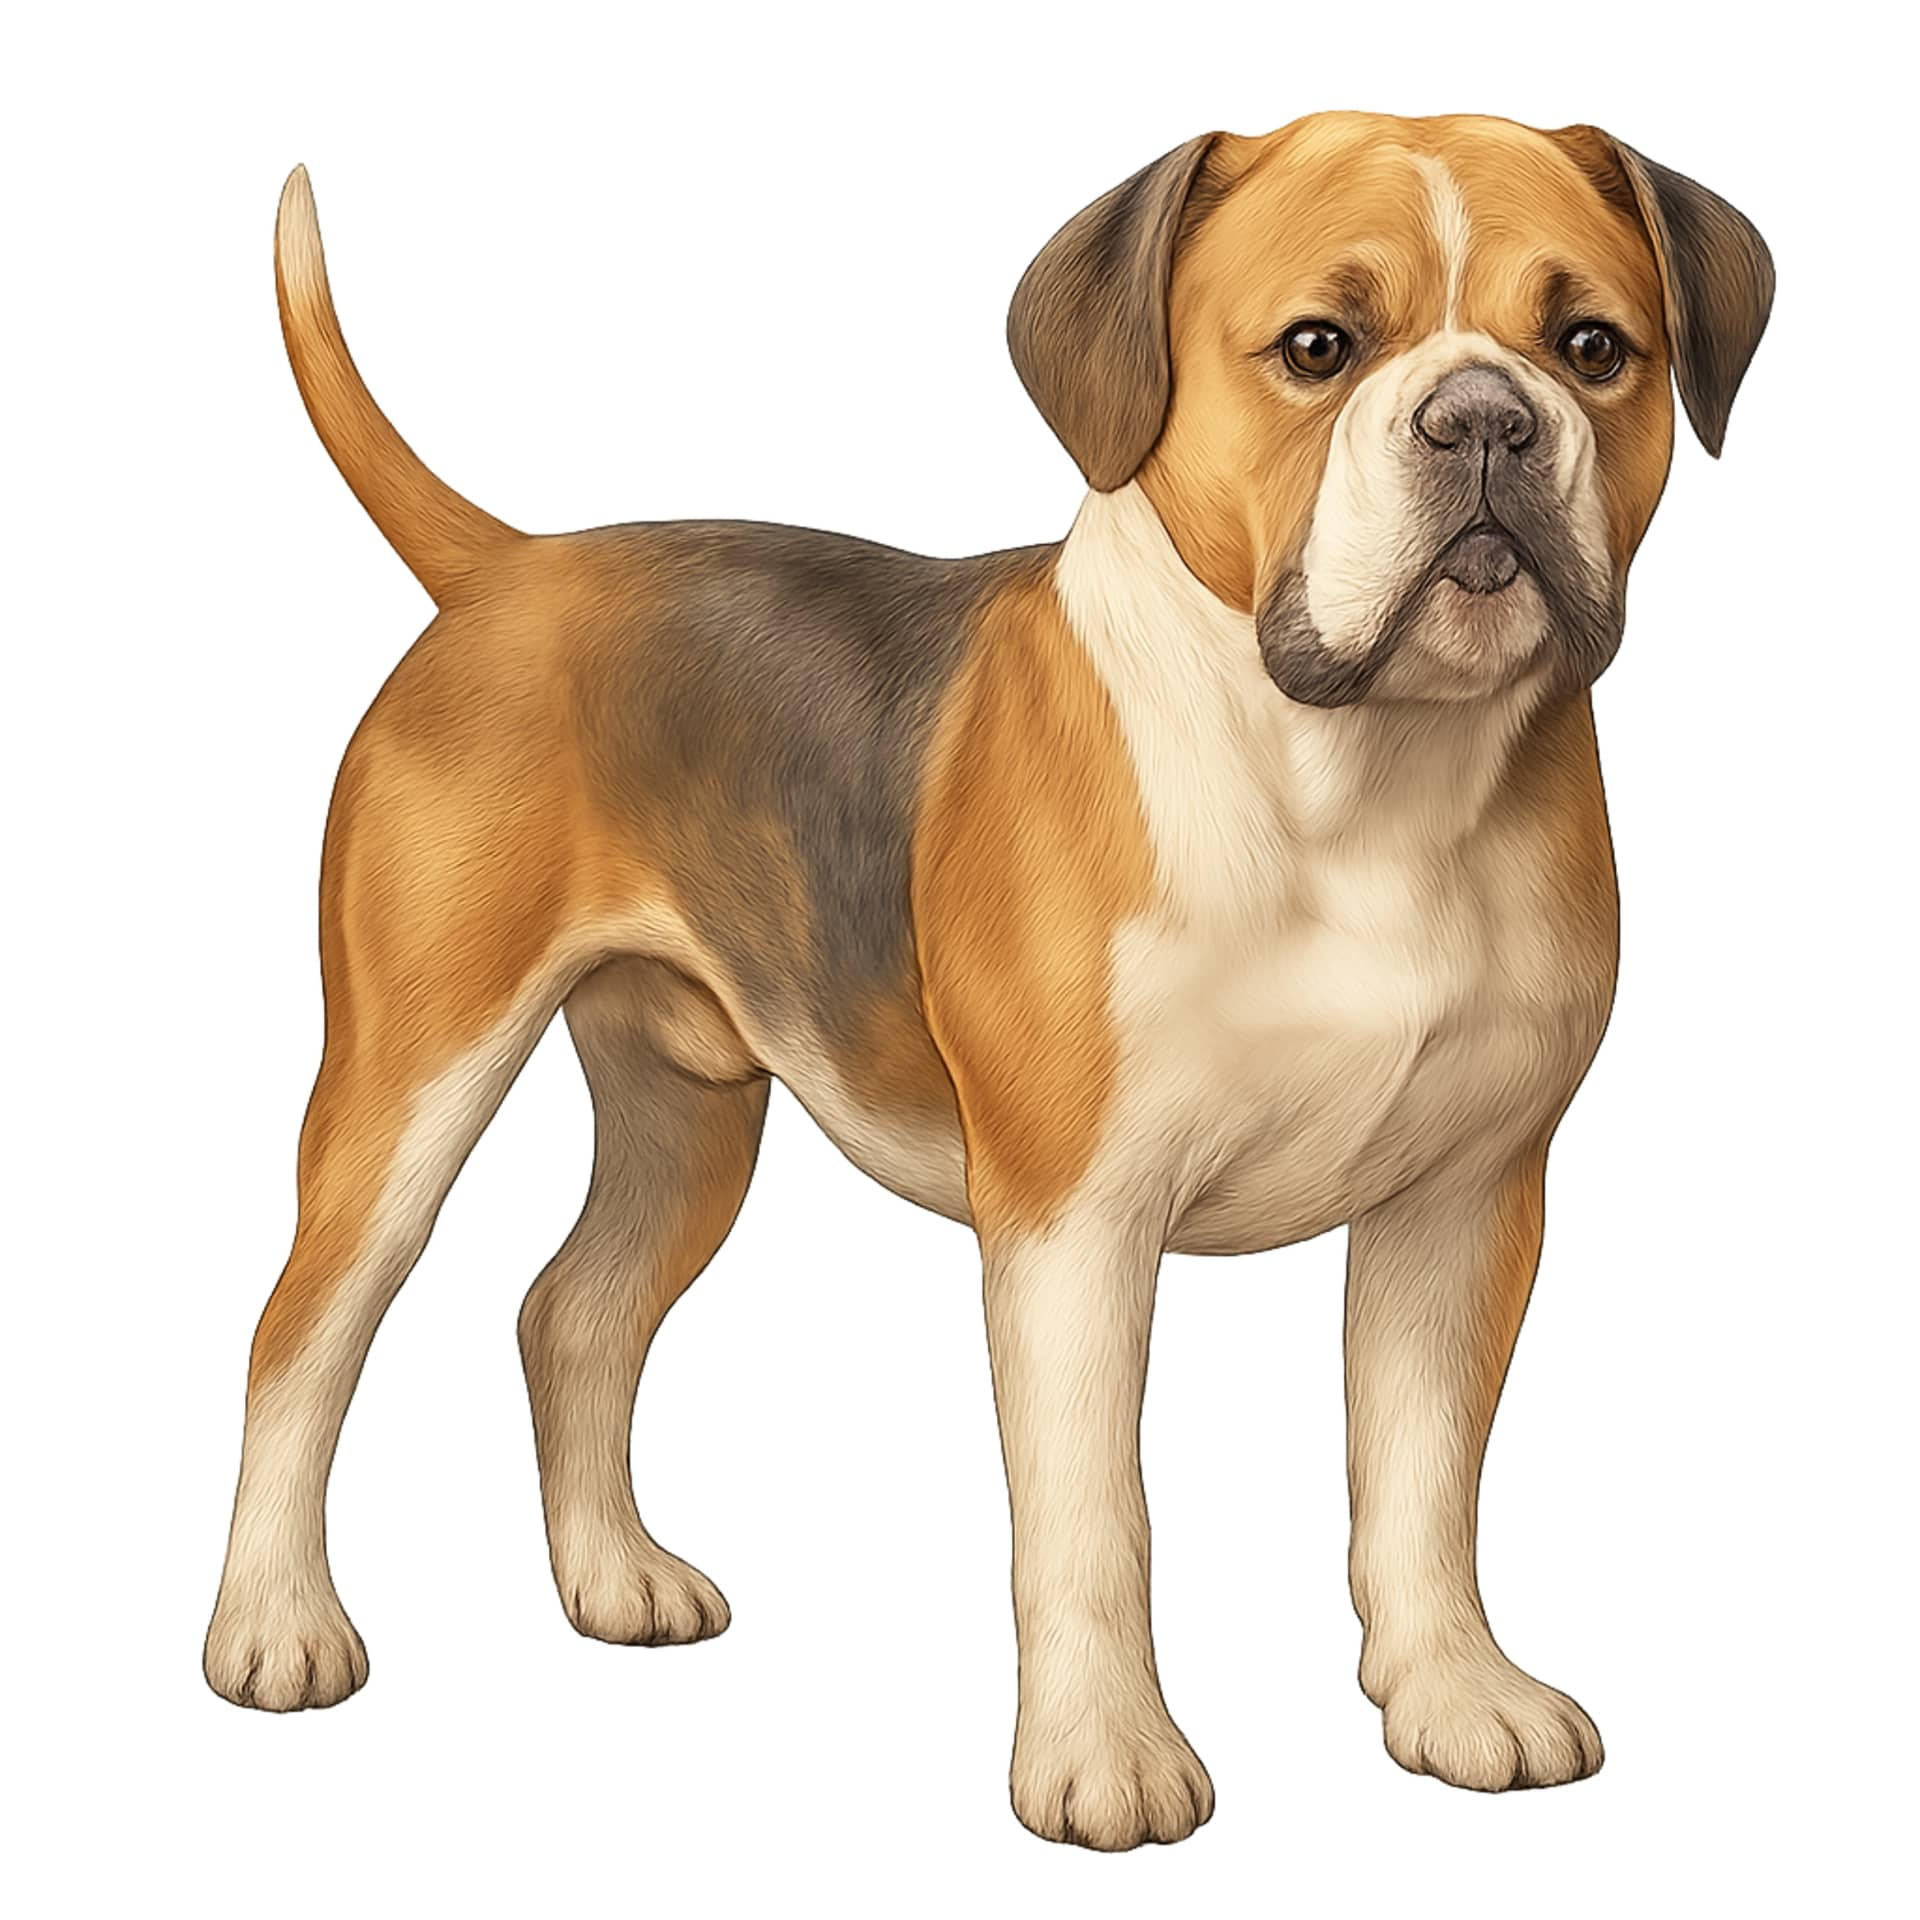
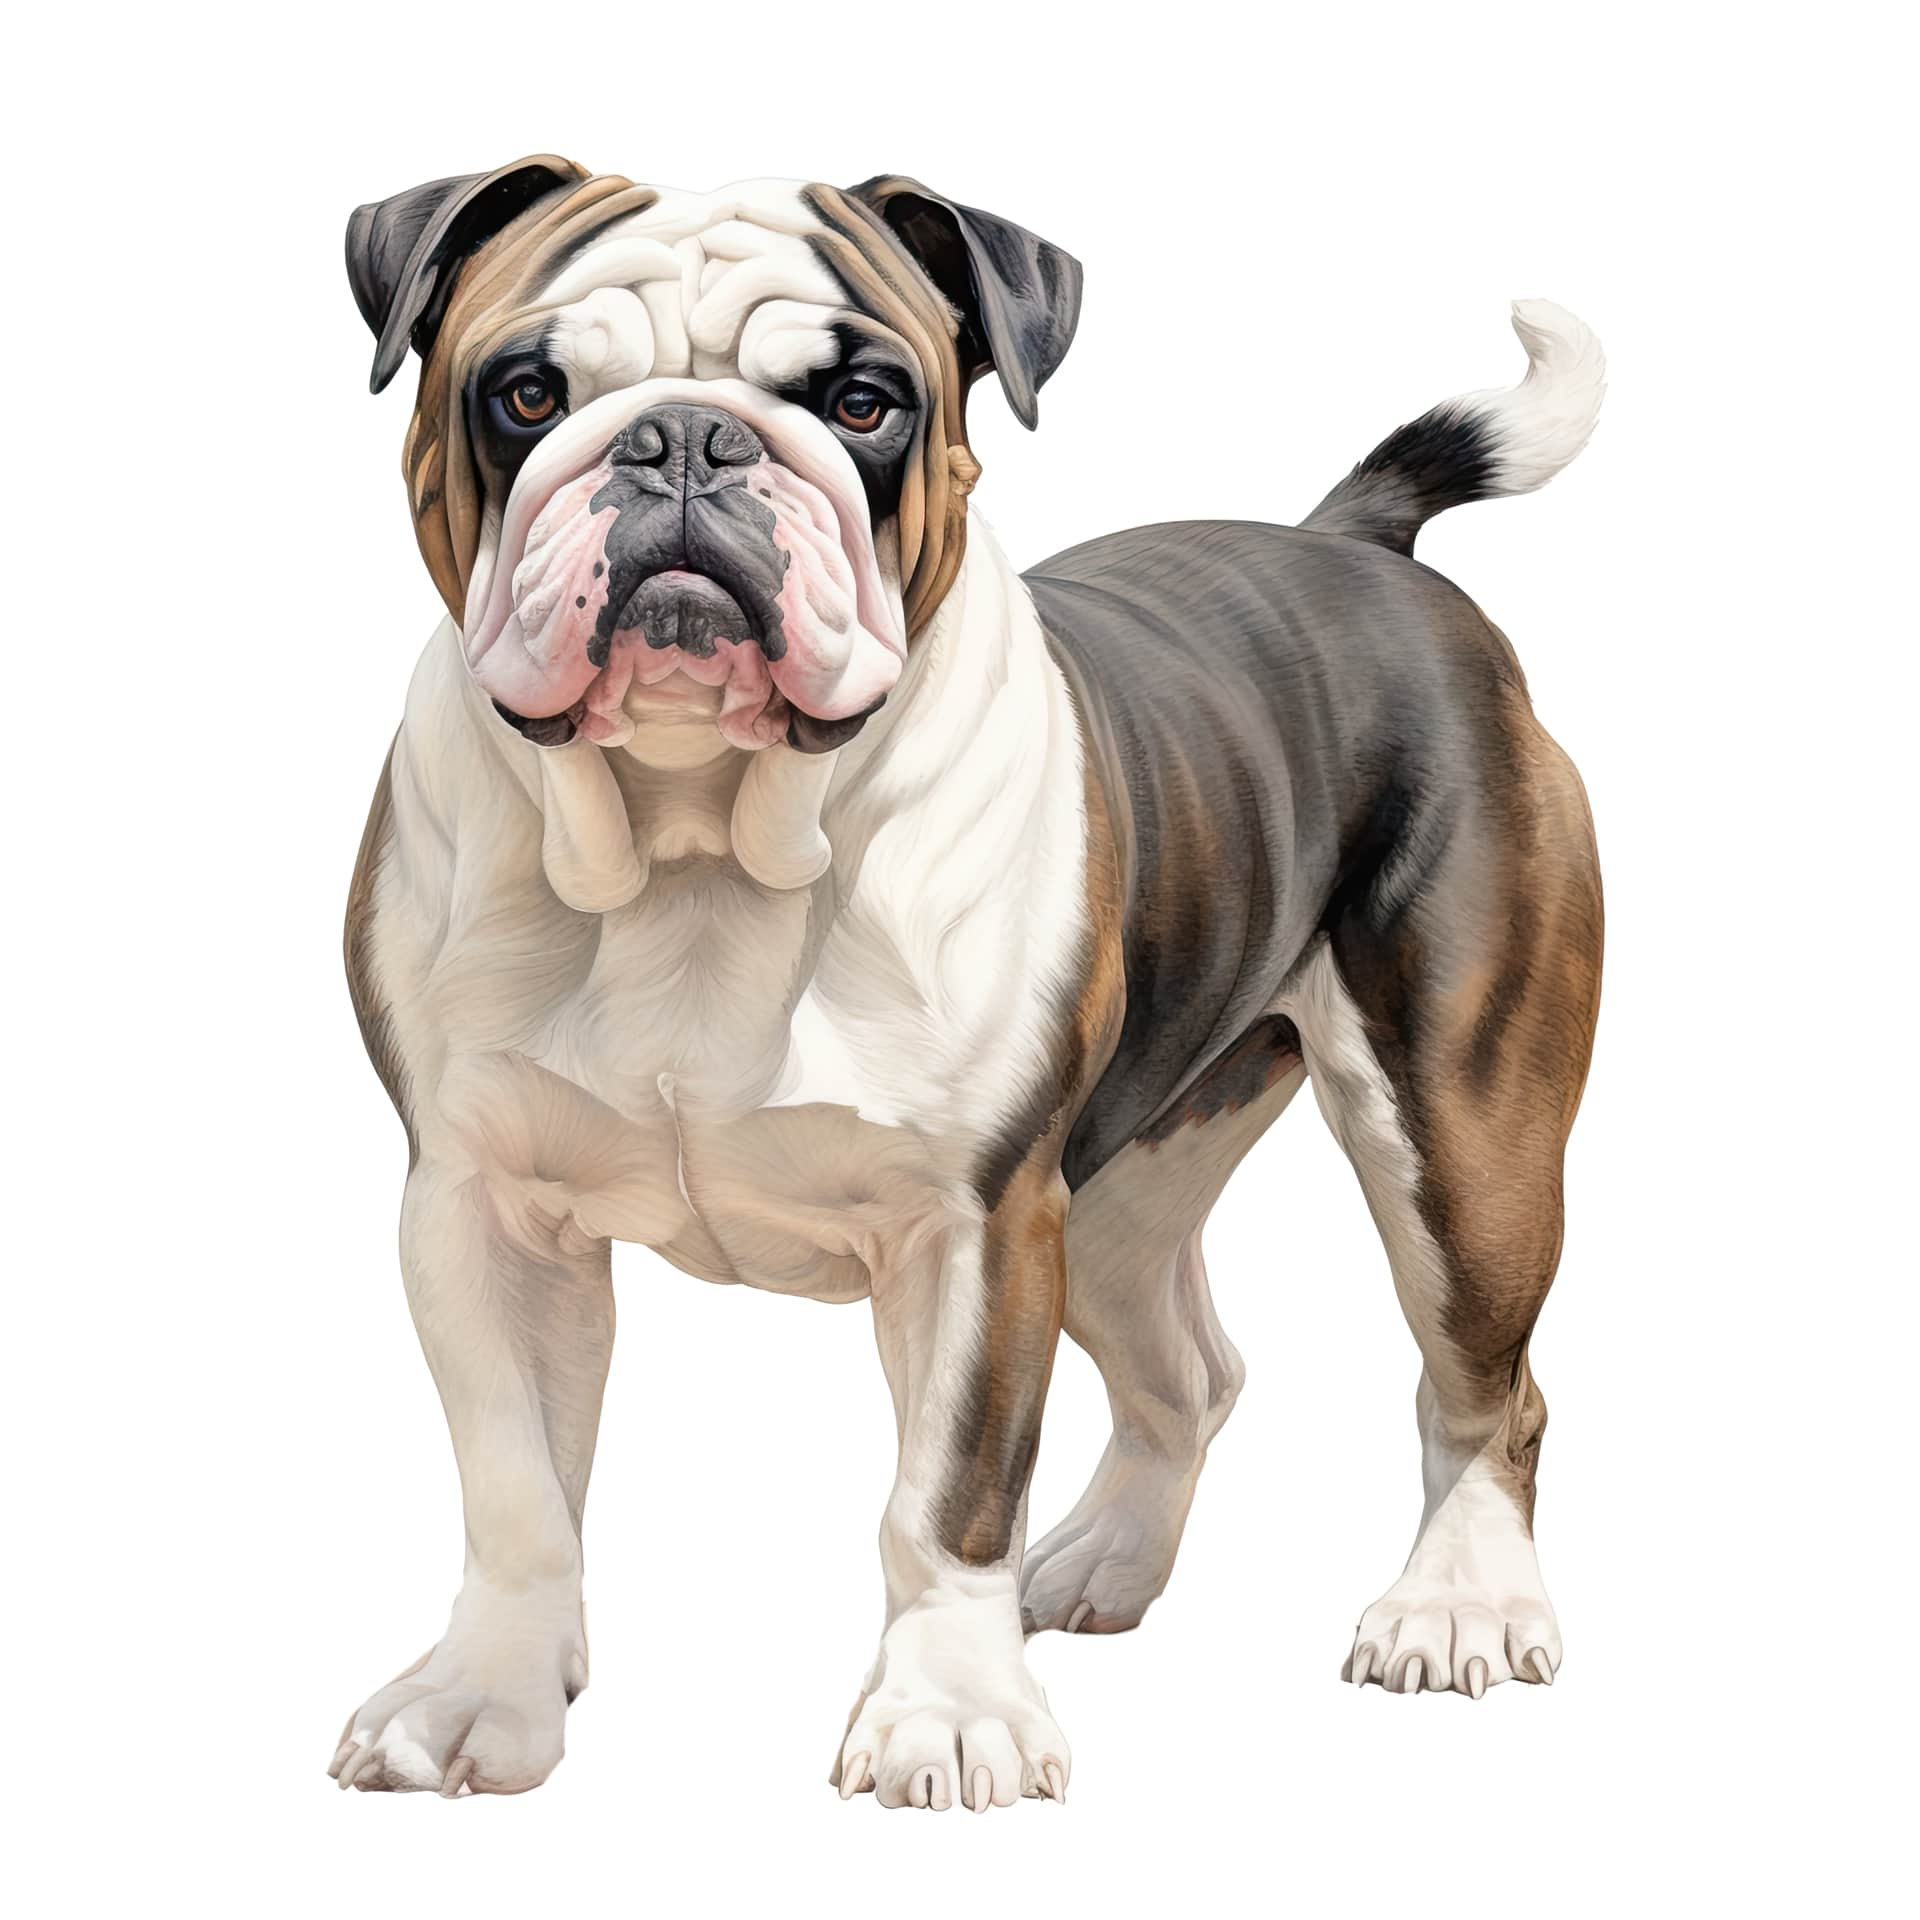
removed bulldog link from bottom, broken link, and removed aussie bulldog image and replaced it with better quality and more accurate portrait

diff --git a/components/footer.tsx b/components/footer.tsx
@@ -60,12 +60,6 @@ export default function Footer() {
               >
                 French Bulldog
               </Link>
-              <Link
-                href="/breeds/bulldog"
-                className="hover:underline hover:text-red-400"
-              >
-                Bulldog
-              </Link>
             </div>
           </div>
 
